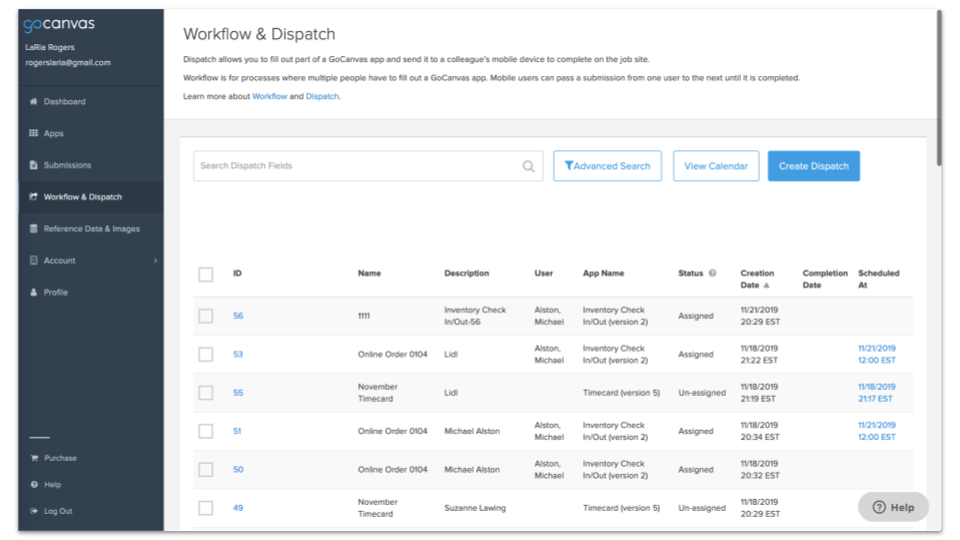
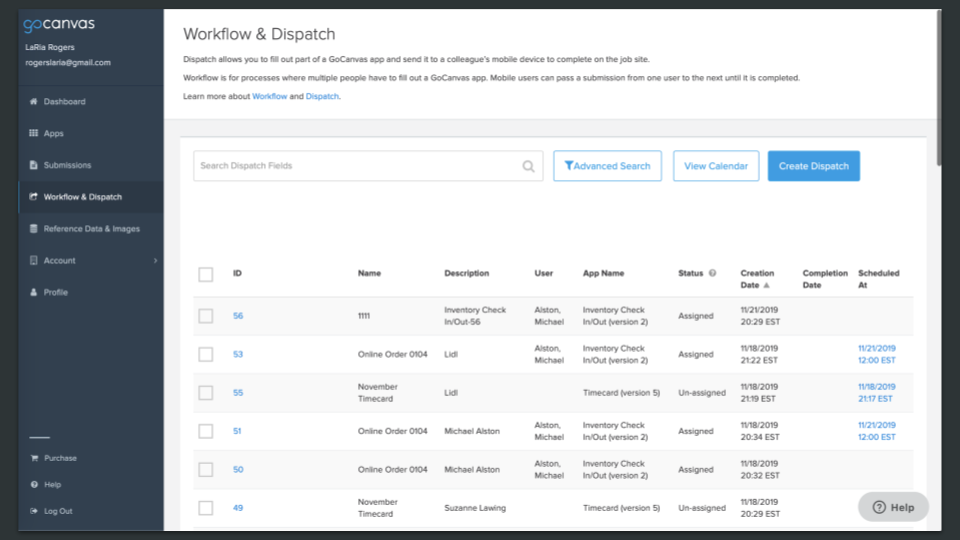
dark theme

Changed region(s): [[0.0, 0.0, 1.0, 1.0]]

diff --git a/src/components/hero.js b/src/components/hero.js
@@ -25,7 +25,7 @@ const HeroSection = styled.section`
 const HeroText = styled.div`
   text-align: left;
   font-size: ${fontSize.f9};
-  color: ${color.grey900};
+  color: #dfe6e9;
   font-weight: normal;
   letter-spacing: -0.4px;
   line-height: 1.20;
@@ -41,7 +41,7 @@ const HeroText = styled.div`
 const Big = styled.span`
   font-face: IBMPlexSans;
   font-size: ${fontSize.f12};
-  color: ${color.grey900};
+  color: #dfe6e9;
   font-weight: 700;
   letter-spacing: -0.4px;
   line-height: 1.00;
@@ -58,7 +58,7 @@ const SocialLinks = styled.div`
   display: grid;
   grid-column-gap: 4px;
   grid-template-columns: auto auto auto auto;
-  padding: 15px 24px 0 0;
+  padding: 15px 24px 15px 0;
   ${media.sm`
     padding: ${props => (props.article ? '15px 12px 0 8px' : '4px 0 0 0')};
     grid-column-gap: 0;
@@ -75,13 +75,13 @@ const SocialLink = styled.a`
   align-items: center;
   width: 40px;
   height: 40px;
-  background: ${color.red500};
+  background: #2d3436;
   
-  color: #000;
-  border: 1px solid ${color.red500};
+  color: #636e72;
+  border: 1px solid #2d3436;
   &:hover {
-    border: 1px solid ${color.red500};
-    background: ${color.red500};
+    border: 1px solid #2d3436;
+    background: #2d3436;
     color: ${color.ltblue500};
   }
   &:active {
@@ -93,16 +93,16 @@ const SocialLink = styled.a`
 `
 
 const Work = styled.a`
-  padding: 24px 24px 0 0;
-  display: flex;
+  padding: 0px 0px 0 0;
+  //display: block;
   text-shadow: none;
   //justify-content: flex-end;
   align-items: center;
   color: #000;
-  border: 1px solid ${color.red500};
+  border: 1px solid #2d3436;
   &:hover {
-    border: 1px solid ${color.red500};
-    background: ${color.red500};
+    border: 1px solid #2d3436;
+    background: #2d3436};
     color: ${color.ltblue500};
   }
   &:active {

diff --git a/src/pages/gocanvas.js b/src/pages/gocanvas.js
@@ -9,7 +9,7 @@ import { color, fontSize } from 'styles/theme'
 import GlobalWrapper from 'components/global-wrapper'
 import media from 'utils/media-queries'
 
-import Header from 'components/article/header'
+import Header from 'components/header'
 import CoverImage from 'components/article/coverimage'
 import ContentWrapper from 'components/article/contentwrapper'
 import Footer from 'components/footer'
@@ -79,7 +79,7 @@ const iframeContainer = styled.div`
 `
 
 const ImageGrid = styled.div`
-  background: #f2f2f2;
+  background: #0003;
   max-width: 100%;
   padding: 40px;
   margin: 32px 0;
@@ -98,7 +98,7 @@ const ImageGrid = styled.div`
 `
 
 const TextGrid = styled.div`
-  background: #f2f2f2;
+  background: #0003;
   max-width: 100%;
   padding: 40px;
   margin: 32px 0;
@@ -140,10 +140,8 @@ const Img = styled.img`
 function GoCanvas() {
   return (
     <GlobalWrapper>
-      <Helmet>
-        <style>{'body { background-color: white; color: black; } h1, h2 {font-weight: 700} h1, h2, h3, h4 { color: black; } #foo {background-color: black} #white {color: white; background-color: black;}'}</style>
-      </Helmet>
-      <Header title="GoCanvas" />
+      
+      <Header />
       
       <Section>
         
@@ -259,6 +257,7 @@ function GoCanvas() {
           alt1="Scenario 1 results"
           src2={table02}
           alt2="Scenario 2 results"
+          maxHeight="350px"
         />
         <ContentWrapper>
         <br />

diff --git a/src/components/header.js b/src/components/header.js
@@ -5,7 +5,7 @@ import { color, fontSize } from 'styles/theme'
 
 import Icon from 'components/icons'
 
-import HSLogo from 'img/brand.svg'
+import HSLogo from 'img/brand_lt.svg'
 
 const Div = styled.div`
   display: flex;
@@ -99,20 +99,20 @@ const SocialLink = styled.a`
   align-items: center;
   width: 40px;
   height: 40px;
-  background: ${color.red500};
+  //background: ${color.red500};
   border-radius: 20px;
-  color: ${color.red900};
-  border: 1px solid ${color.red500};
+  color: #636e72;
+  //border: 1px solid ${color.red500};
   &:hover {
-    border: 1px solid ${color.red500};
-    background: ${color.red500};
-    color: ${color.ltblue500};
+    //border: 1px solid ${color.red500};
+    //background: ${color.red500};
+    color: ${color.red500};
   }
   &:active {
     color: ${color.ltblue500};
   }
   &:visited {
-    color: ${color.red900};
+    color: ${color.red500};
   }
 `
 
@@ -137,7 +137,7 @@ const Tooltip = styled.div`
   font-family: IBMPlexMono;
   padding: 2px 24px 0 24px;
   display: flex;
-  color: white;
+  color: #b2bec3;
   justify-content: flex-end;
   align-items: center;
   opacity: ${props => (props.visible ? '1' : '0')};
@@ -149,6 +149,7 @@ const Tooltip = styled.div`
 `
 
 const TooltipIcon = styled.div`
+  color: #b2bec3;
   transform: rotate(270deg);
   margin-left: 8px;
 `

diff --git a/src/pages/visualdesign.js b/src/pages/visualdesign.js
@@ -9,7 +9,7 @@ import { color, fontSize } from 'styles/theme'
 import GlobalWrapper from 'components/global-wrapper'
 import media from 'utils/media-queries'
 
-import Header from 'components/article/header'
+import Header from 'components/header'
 import CoverImage from 'components/article/coverimage'
 import ContentWrapper from 'components/article/contentwrapper'
 import Footer from 'components/footer'
@@ -79,7 +79,7 @@ const iframeContainer = styled.div`
 `
 
 const ImageGrid = styled.div`
-  background: #f2f2f2;
+  background: #0003;
   max-width: 100%;
   padding: 40px;
   margin: 32px 0;
@@ -98,7 +98,7 @@ const ImageGrid = styled.div`
 `
 
 const TextGrid = styled.div`
-  background: #f2f2f2;
+  //background: #0003;
   max-width: 100%;
   padding: 40px;
   margin: 32px 0;
@@ -140,9 +140,7 @@ const Img = styled.img`
 function VisualDesign() {
   return (
     <GlobalWrapper>
-      <Helmet>
-        <style>{'body { background-color: white; color: black; } h1, h2 {font-weight: 700} h1, h2, h3, h4 { color: black; } #foo {background-color: black} #white {color: white; background-color: black;} iframe{border: none;}'}</style>
-      </Helmet>
+      
       <Header title="Visual Design Studio" />
       
       <Section>

diff --git a/src/pages/iqsolns.js b/src/pages/iqsolns.js
@@ -6,7 +6,7 @@ import { color, fontSize } from 'styles/theme'
 import GlobalWrapper from 'components/global-wrapper'
 import media from 'utils/media-queries'
 
-import Header from 'components/article/header'
+import Header from 'components/header'
 import CoverImage from 'components/article/coverimage'
 import ContentWrapper from 'components/article/contentwrapper'
 import Footer from 'components/footer'
@@ -55,7 +55,7 @@ const Video = styled.iframe`
 `
 
 const ImageGrid = styled.div`
-  background: #f2f2f2;
+  background: #0003;
   max-width: 100%;
   padding: 40px;
   margin: 32px 0;
@@ -97,10 +97,8 @@ const Img = styled.img`
 function IQSolns() {
   return (
     <GlobalWrapper>
-      <Helmet>
-        <style>{'body { background-color: white; color: black; } h1, h2 {font-weight: 700} h1, h2, h3, h4 { color: black; } #foo {background-color: black} #white {color: white; background-color: black;}'}</style>
-      </Helmet>
-      <Header title="IQ Solutions" />
+      
+      <Header />
       <CoverImage src={CoverSrc} focusX={'35%'} focusY={'50%'} />
       <Section>
         <ContentWrapper>

diff --git a/src/styles/global-style.js b/src/styles/global-style.js
@@ -63,7 +63,7 @@ article,aside,details,figcaption,figure,footer,header,hgroup,nav,section,summary
     font-family: 'IBMPlexSans', system-ui, sans-serif;
     height: 100%;
     color: white;
-    background: ${color.red500};
+    background: #2d3436;
     font-feature-settings: "liga","kern";
     font-variant-ligatures: contextual common-ligatures;
     font-kerning: normal;
@@ -162,18 +162,18 @@ article,aside,details,figcaption,figure,footer,header,hgroup,nav,section,summary
   }
 
   a {
-    color: ${color.red900};
+    color: ${color.red500};
     text-decoration: none;
     font-weight: 600;
     &:visited {
-      color: ${color.red900};
+      color: ${color.red500};
     }
     &:active {
       color: ${color.ltblue500};
     }
     &:hover {
-      color: ${color.ltblue500};
-      text-shadow: 2px 2px ${color.red900};
+      color: #fab1a0;
+      //text-shadow: 2px 2px ${color.red900};
     }
     :focus {
       outline: ${props => (props.displayOutlines ? '' : 'none')};

diff --git a/src/components/sectionHeading.js b/src/components/sectionHeading.js
@@ -4,11 +4,11 @@ import media from 'utils/media-queries'
 import { color, fontSize } from 'styles/theme'
 
 const H2 = styled.h2`
-  border-top: 2px solid ${color.grey900};
+  border-top: 2px solid #636e72;
   display: inline-block;
   font-family: IBMPlexMono;
   font-size: ${fontSize.f5};
-  color: ${color.grey900};
+  color: #636e72;
   letter-spacing: 5px;
   text-transform: uppercase;
   font-weight: 700;
@@ -24,7 +24,7 @@ const H2 = styled.h2`
       border-top: none;
       margin-bottom: 72px;
       padding-bottom: 12px;
-      border-bottom: 2px solid ${color.grey900};
+      border-bottom: 2px solid #636e72;
     `}
   ${media.sm`
       margin-bottom: 60px;

diff --git a/src/components/icons.js b/src/components/icons.js
@@ -33,9 +33,9 @@ export const Glyph = ({ glyph }) => {
         <path
           d="m17.2418941 24.3664442-1.4379826-1.4193075 5.9200062-5.9200063h-15.33225596v-2.0542608h15.33225596l-5.9200062-5.90133121 1.4379826-1.43798259 8.3664442 8.3664442z"
           transform="matrix(0 1 -1 0 32 0)"
-          fill="#fff"
-          stroke="white"
-          stroke-width="2"
+          fill="#b2bec3"
+          //stroke="white"
+          //stroke-width="2"
         />
       )
     case 'external-link':

diff --git a/src/components/twoColumnsNew.js b/src/components/twoColumnsNew.js
@@ -9,7 +9,7 @@ const Div = styled.div`
   grid-column-gap: 40px;
   justify-content: space-between;
   width: 100%;
-  background: #f2f2f2;
+  //background: #0001;
   ${media.md`
     grid-template-columns: auto;
     justify-content: center;

diff --git a/src/components/projectlogo.js b/src/components/projectlogo.js
@@ -7,7 +7,7 @@ import { color } from 'styles/theme'
 const size = 150
 
 const Image = styled.div`
-  background: ${color.red500};
+  //background: ${color.red500};
   flex: 0 0 ${size}px;
   height: ${size}px;
   margin-right: 40px;
